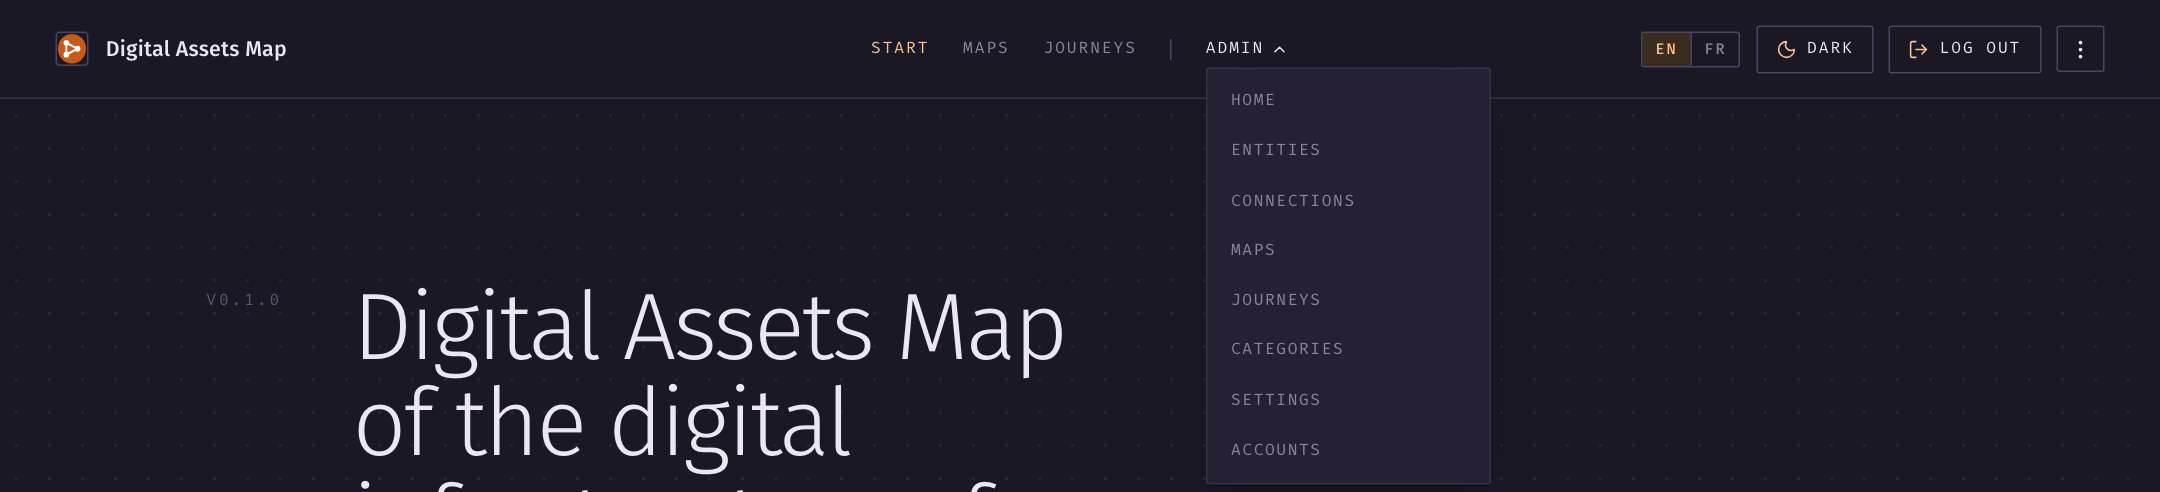
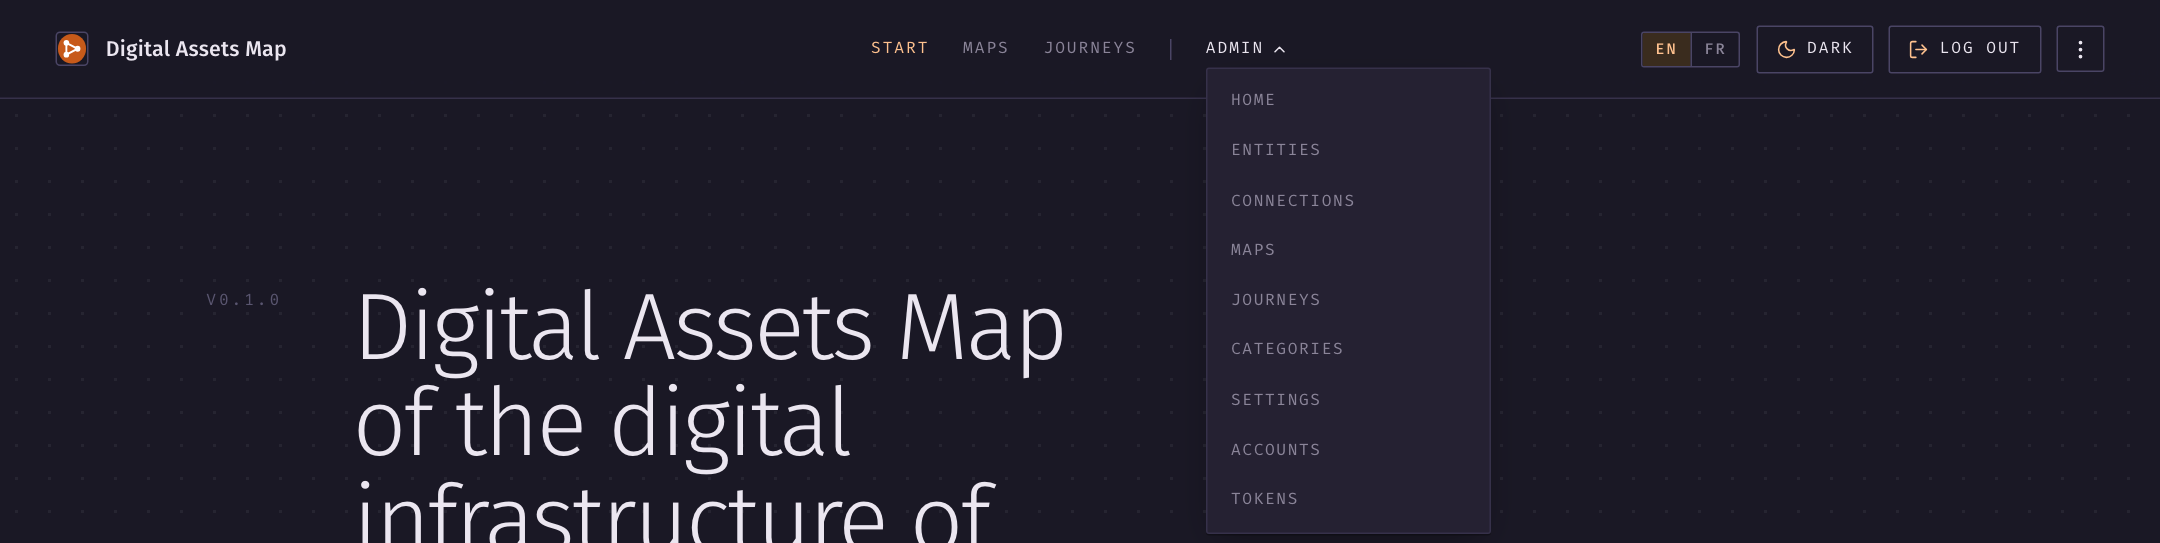
docs: the agents' api as it exists, the tokens and connect-an-agent manual pages
The design notes describe what runs: the tools, the guard, the record of writes, the
service account, the files; the decisions stay linked. The manual gains API tokens (the
screen) and Connect an agent (a recipe per client: Claude Code, Codex, Cursor, any HTTP
client), in the navigation and the introduction, with the screens from bun run shots.
The readme points at the page.

diff --git a/e2e/shots/tokens.spec.ts b/e2e/shots/tokens.spec.ts
@@ -1,0 +1,20 @@
+// Screens of "API tokens" and "Connect an agent": the token shown once, and the list with it.
+import { expect, screens, signIn, test } from './lib';
+
+test('the tokens of the agents\' api', async ({ page }) => {
+	const s = screens(page, 'tokens');
+	await signIn(page);
+	await page.goto('/admin/tokens');
+	await expect(page.getByRole('heading', { name: 'API tokens', exact: true })).toBeVisible();
+
+	await page.getByRole('button', { name: 'New token' }).click();
+	await page.locator('#token-name').fill('Sheet import');
+	await page.getByRole('button', { name: 'Create', exact: true }).click();
+	const issued = page.getByRole('dialog').filter({ hasText: 'Token created' });
+	await expect(issued.locator('code.box.secret')).toHaveText(/^dam_[0-9a-f]{8}_/);
+	await s.shot(issued.getByRole('button', { name: 'Copy' }).first(), { of: issued });
+	await issued.getByRole('button', { name: 'Done' }).click();
+
+	await s.shot(page.getByRole('cell', { name: 'Sheet import' }), { fullPage: false });
+	s.end();
+});

diff --git a/docs/connect-an-agent.md b/docs/connect-an-agent.md
@@ -1,0 +1,97 @@
+# Connect an agent
+
+An AI agent connects to a deployment through its MCP server, at `https://<app>/api/v1/mcp`, with a [token](./tokens.md) in the header `Authorization: Bearer <token>`. MCP is the protocol Claude Code, Codex and Cursor use to discover and call tools: the agent reads the list of tools and their descriptions, and from a spreadsheet or a document it saves categories, entities, connections and journeys, as [the manual's editing pages](./entities.md) describe by hand.
+
+![The token and the MCP address, shown once when the token is created](/screens/tokens-1.png)
+
+## Before you connect
+
+- **Give the agent only these tools.** The recipe recommended below runs the agent with the map's tools and nothing else: no terminal, no web, no other MCP servers. A document the agent reads can carry instructions meant for it; with no other tool, those instructions have nowhere to go.
+- **What the agent reads goes to its model's provider**, the people of the map included. Whoever connects the agent answers for that.
+- **What it saves goes live at once**, except journeys, which stay in their edit until `publish_journey`. The agent is told to point you to the preview and ask before publishing. Every write is recorded, with what it replaced, under **writes** in [API tokens](./tokens.md).
+- **Keep the token out of files in a repository.** The recipes below put it in an environment variable or in a file of your own account.
+
+## The recipes
+
+The address below is the one the token dialog shows; `<token>` is the token itself, and `DAM_API_TOKEN` an environment variable that holds it.
+
+### Claude Code, with the map's tools only
+
+A file, `dam.json`, with this server alone; Claude Code expands the variable:
+
+```json
+{
+  "mcpServers": {
+    "dam": {
+      "type": "http",
+      "url": "https://<app>/api/v1/mcp",
+      "headers": { "Authorization": "Bearer ${DAM_API_TOKEN}" }
+    }
+  }
+}
+```
+
+```sh
+export DAM_API_TOKEN="<token>"
+claude --tools "" --strict-mcp-config --mcp-config dam.json --allowedTools "mcp__dam"
+```
+
+`--tools ""` turns off Claude Code's own tools (terminal, web, files, subagents); `--strict-mcp-config` uses only the servers of `--mcp-config` and leaves out the ones of your account. `--allowedTools` only spares the permission question on each call.
+
+### Claude Code, added to a session
+
+```sh
+claude mcp add --transport http dam https://<app>/api/v1/mcp --header "Authorization: Bearer <token>"
+```
+
+The default scope is the folder where the command runs, and `--scope user` is every folder; use one of the two rather than `--scope project`, which writes the token to the repository's `.mcp.json`.
+
+### Codex
+
+In `~/.codex/config.toml`, with the token in the environment variable:
+
+```toml
+[mcp_servers.dam]
+url = "https://<app>/api/v1/mcp"
+bearer_token_env_var = "DAM_API_TOKEN"
+```
+
+### Cursor, and other clients with `mcpServers` in JSON
+
+In `~/.cursor/mcp.json`, which applies to every project, or `.cursor/mcp.json` for one:
+
+```json
+{ "mcpServers": { "dam": { "url": "https://<app>/api/v1/mcp", "headers": { "Authorization": "Bearer <token>" } } } }
+```
+
+Cursor expands `${env:DAM_API_TOKEN}` in `headers`; other clients may not, so keep that file in your own account, outside any repository.
+
+### Any HTTP client
+
+The server speaks JSON-RPC over HTTP: one POST per request, JSON back. To see the tools:
+
+```sh
+curl https://<app>/api/v1/mcp \
+  -H "Authorization: Bearer $DAM_API_TOKEN" -H "Content-Type: application/json" \
+  -H "MCP-Protocol-Version: 2025-06-18" \
+  -d '{"jsonrpc":"2.0","id":1,"method":"tools/list"}'
+```
+
+## What the agent can do
+
+| Tool | What it does |
+|---|---|
+| `get_deployment` | the settings, the locales, the categories and the maps: where the agent starts |
+| `list_entities`, `get_entity`, `list_connections`, `list_journeys`, `get_journey` | reads the map and the journeys' edit |
+| `save_category`, `save_map`, `save_settings` | the lanes of the map, the maps and the deployment's identity (not the flag or logo) |
+| `save_entities` | up to 50 entities a call, each whole: category, texts per language, links, maps; with no id, an entity of the same category and label is updated, so a spreadsheet can run twice |
+| `place_entities`, `save_connections` | positions on a map, and up to 200 connections a call |
+| `save_journey`, `save_journey_steps` | a journey's edit and the whole list of its steps, each with the entities it highlights |
+| `publish_journey` | copies the edit to the public site, after you said yes |
+| `delete_entity`, `delete_connection`, `delete_category`, `delete_map`, `delete_journey` | deletes, under the same rules as the admin screens |
+
+A good first prompt names the source and the categories: "Read this spreadsheet; each row is an entity of the category in column A, on the main map; connect each one to the agency in column D."
+
+## Out of reach
+
+The connectors of claude.ai and ChatGPT ask for OAuth, which the map does not offer: use a client that takes a fixed token, like the ones above.

diff --git a/docs/tokens.md b/docs/tokens.md
@@ -1,0 +1,31 @@
+# API tokens
+
+`/admin/tokens` holds the tokens that let an AI agent, such as Claude Code, Codex or Cursor, read and edit this map through the API. Any admin creates and deletes them; a token belongs to the deployment, not to the person who created it, so it keeps working when that person leaves.
+
+![The list of tokens](/screens/tokens-2.png)
+
+## What a token does
+
+A token does everything the API does: it reads the map and the journeys' edit, saves categories, maps, entities, their positions and connections, writes journeys and their steps, publishes a journey, deletes any of those, and changes the deployment's settings except the flag and the logo. There are no scopes. What it never does: manage accounts or other tokens, upload files, change the schema or run the setup.
+
+Entities, connections, categories and maps an agent saves go live on the public site at once, as if someone had saved them in the admin. A journey is different: the agent writes its edit, which only admins see, and the public copy changes only when the agent calls `publish_journey`, after you have looked at the preview in [Journeys](./writing-a-journey.md) and said yes in the conversation.
+
+What an agent reads, the people of the map included, goes to the provider of its model. Whoever connects the agent answers for that.
+
+## Create a token
+
+**New token** asks for a **Name**: who or what will use it, such as a person, a team or a script. **Create** shows the token once, with **Copy**, beside the MCP address the agent connects to. The server keeps only a fingerprint of the token: close the dialog and it is gone, so copy it first. The next step is in [Connect an agent](./connect-an-agent.md).
+
+![The token, shown once](/screens/tokens-1.png)
+
+## The list
+
+Each row shows the token's name, its first characters, who created it and when, and its last use. **writes** opens what that token wrote: one line per write, with the tool, the record and the content the write replaced, so a wrong edit can be put back by hand. Creating and deleting a token are in that same list, with the account that did it.
+
+## Delete a token
+
+**remove**, after a confirmation, deletes the token: the agent's next request answers 401, and nothing it wrote changes. The lines of its writes stay, under its name and prefix. A token has no expiry: deleting it is how its access ends. To rotate one, create the new token, move the agent to it, then delete the old one.
+
+## Limits
+
+A token makes up to 120 requests a minute; above that the API answers 429 with how long to wait. One call saves up to 50 entities or 200 connections.

diff --git a/docs/introduction.md b/docs/introduction.md
@@ -11,6 +11,7 @@ The Digital Assets Map (DAM) is an interactive map of a country's digital infras
 | explore a map someone published | [Getting around](./getting-around.md), [The map](./map.md), [Journeys for visitors](./journeys.md) |
 | keep a map's content up to date | [Sign in](./sign-in.md), [Entities](./entities.md), [Writing a journey](./writing-a-journey.md) |
 | install the map for a country | [Install](./install.md), [Configure your deployment](./configure.md), [Accounts](./accounts.md) |
+| feed the map with an AI agent, from a spreadsheet or a document | [API tokens](./tokens.md), [Connect an agent](./connect-an-agent.md) |
 | improve the code or this manual | [Contributing](./contributing.md) |
 
 ## The words the map uses

diff --git a/README.md b/README.md
@@ -4,6 +4,8 @@ The Digital Assets Map (DAM) is an interactive map of a country's digital infras
 
 Each deployment runs its own app and its own PocketBase. A country is configuration and content, kept in that PocketBase and edited in the app.
 
+An AI agent (Claude Code, Codex, Cursor) can feed a deployment from a spreadsheet or a document: the app serves an MCP server at `/api/v1/mcp`, and an admin creates the token in `/admin/tokens`. The manual's [Connect an agent](https://itsriodejaneiro.github.io/dam/connect-an-agent) page has a recipe per client.
+
 **The manual:** <https://itsriodejaneiro.github.io/dam/>
 
 ## Stack
